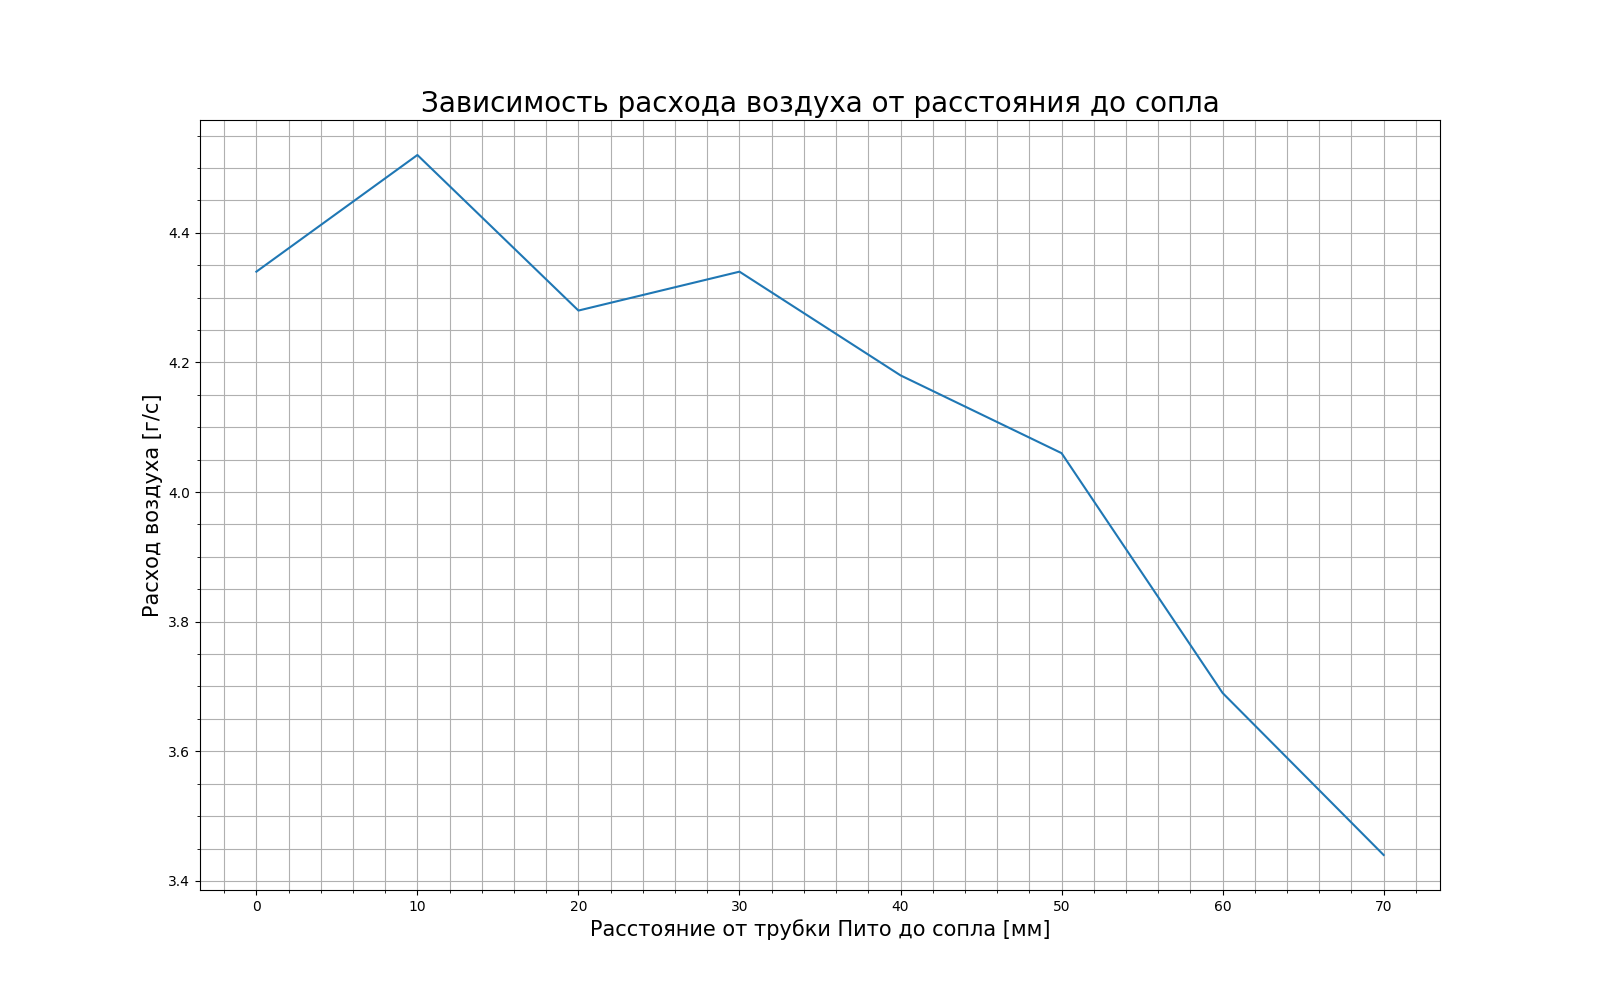
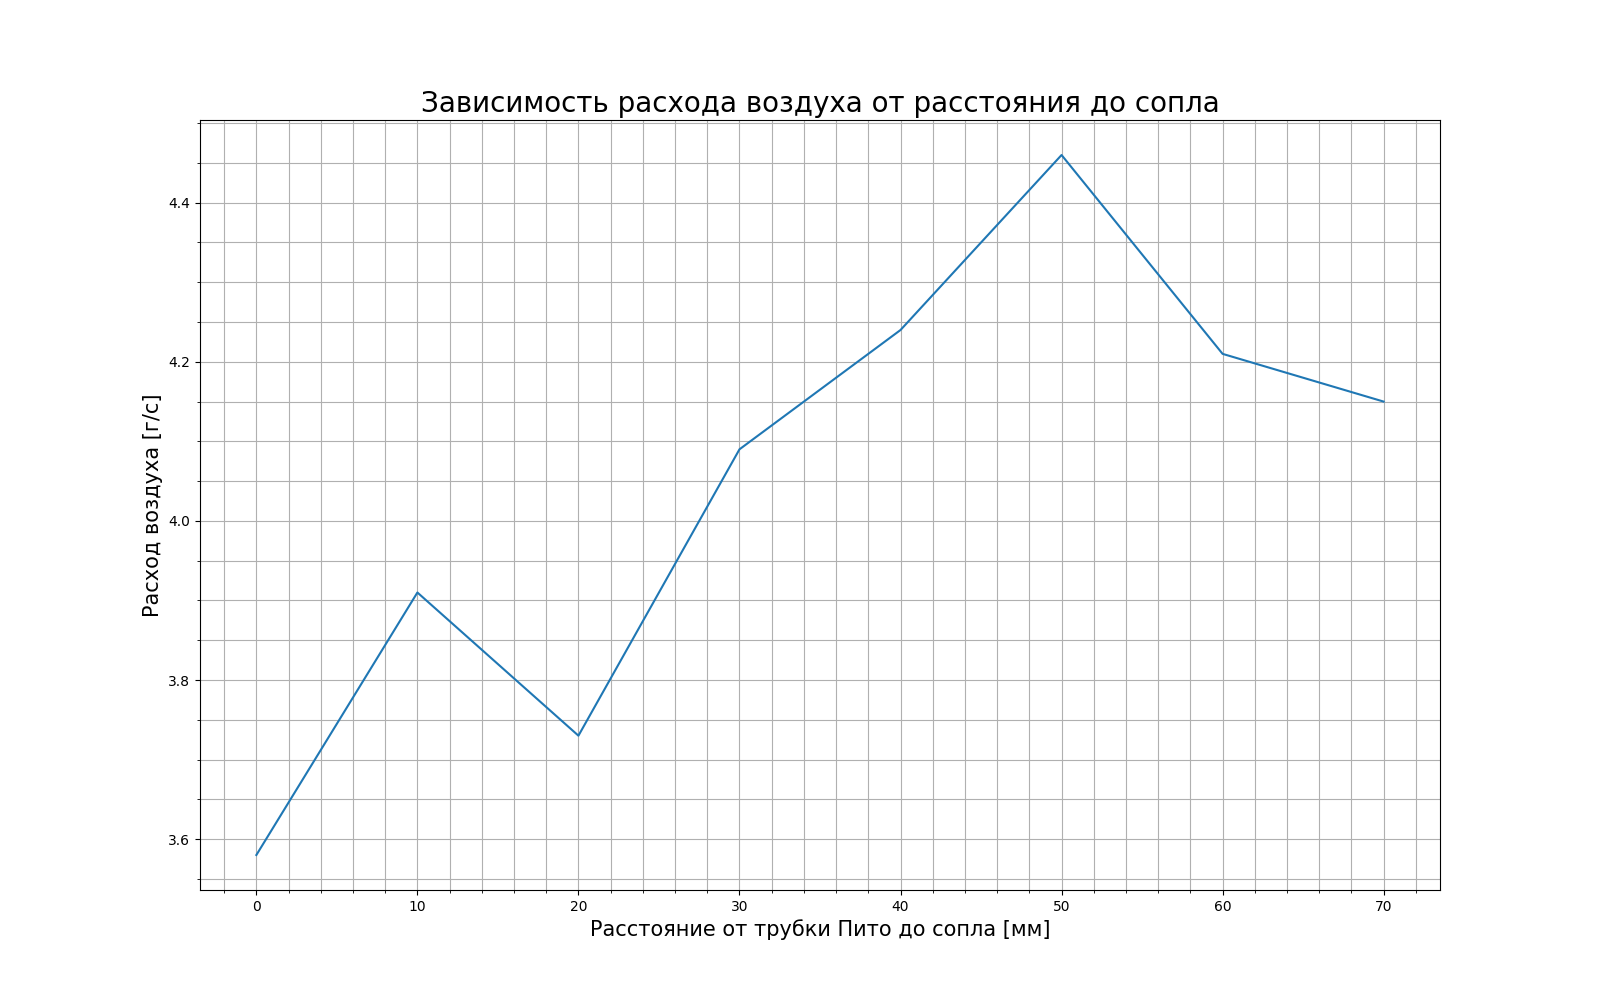
обновил расчет расхода воздуха

diff --git a/jet/sripts/data_processing.py b/jet/sripts/data_processing.py
@@ -47,21 +47,24 @@ for i in range(len(datafiles)):
     vel = []; x = []
     measures, steps, length = read(datafiles[i])
     replace = np.argmax(measures)
-    Q = 0
+
     for j in range(length):
         velocity = get_velocity(measures[j])
         dist = steps / length * 0.055
         vel.append(velocity)
         x.append((j - replace) * dist)
-        Q += velocity*dist/1000
-    Q = Q*3.14*10*1.2/2
-    consumption.append(Q)
+
     z = np.polyfit(x, vel, 8)
     p = np.poly1d(z)
     replace = np.argmax(p(x))
     x = []
     for j in range(length):
         x.append((j - replace) * steps / length * 0.055)
+
+    Q = 0
+    for j in range(length - 1):
+        Q += 3.14 * (abs(x[j]) * vel[j] + abs(x[j + 1]) * vel[j + 1]) * dist / 1000
+    consumption.append(Q)
     ax.plot(x, vel, label= "Q (" + str(10*i) + " мм) = " + str(round(Q, 2)) + " [г/с]")
 
 with open("consumption.txt", 'w') as f:
